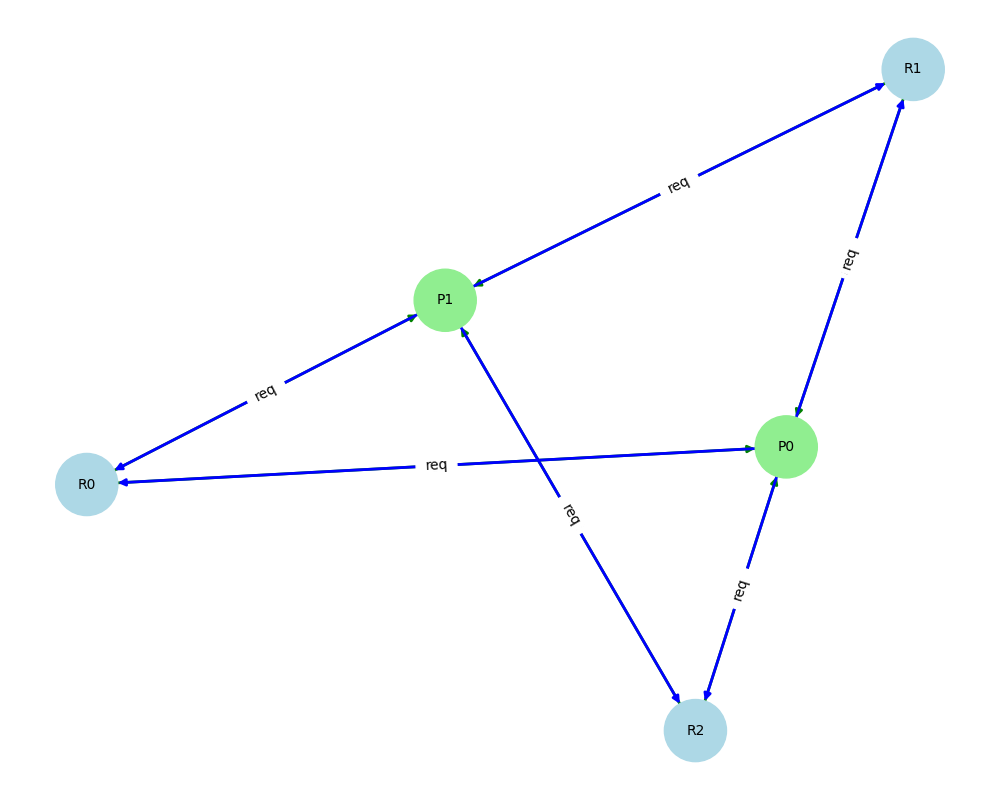
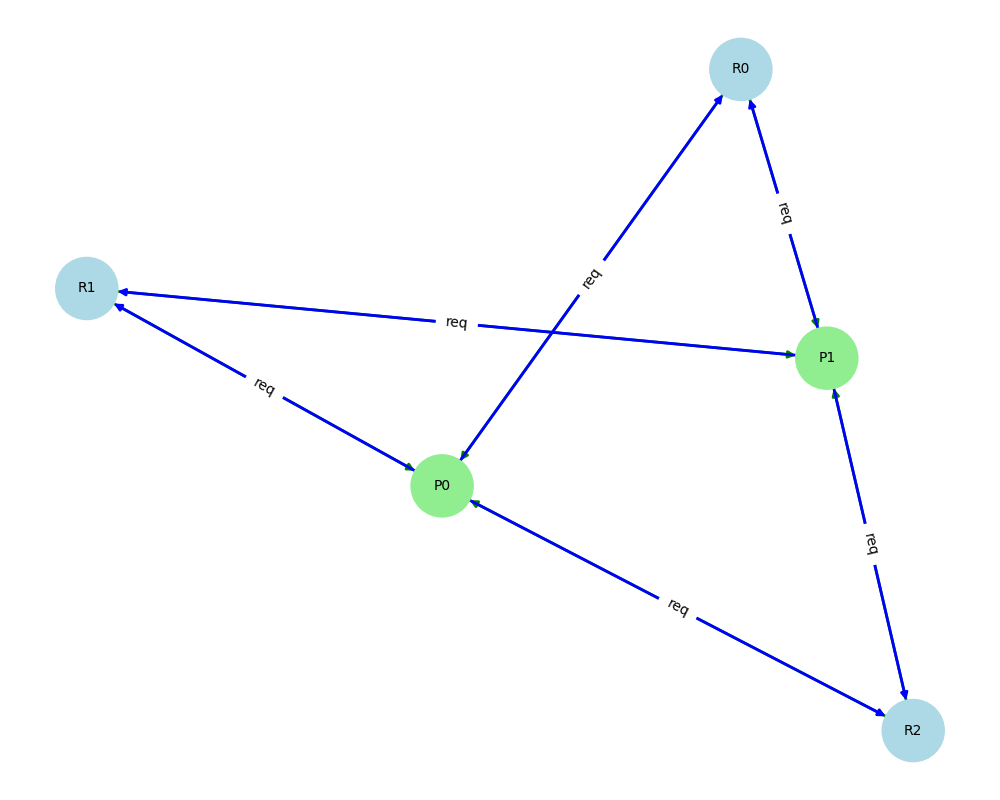
termination button added

diff --git a/frontend/templates/index.html b/frontend/templates/index.html
@@ -34,38 +34,73 @@
         <textarea id="alloc" placeholder="Allocation Matrix (comma-separated rows) e.g.: 1 0 0, 2 1 0"></textarea>
         <textarea id="max" placeholder="Maximum Matrix (comma-separated rows) e.g.: 3 3 2, 4 2 1"></textarea>
         <button onclick="checkDeadlock()">Analyze System State</button>
-        
+        <button id="terminateBtn" onclick="terminateProcess()" style="background: #dc3545; display: none;">Continue with Termination</button>
+
         <div id="output" class="result" style="display:none;"></div>
         <img id="graphImg" style="display:none;" alt="Resource Allocation Graph" />
     </div>
 
     <script>
+        let currentSystemState = null;
+
         async function checkDeadlock() {
             const num_processes = parseInt(document.getElementById('num').value);
             const total = document.getElementById('total').value.trim().split(' ').map(Number);
             const alloc = document.getElementById('alloc').value.trim().split(',').map(row => row.trim().split(' ').map(Number));
             const max = document.getElementById('max').value.trim().split(',').map(row => row.trim().split(' ').map(Number));
 
+            currentSystemState = {
+                num_processes: num_processes,
+                resource_totals: total,
+                allocation: alloc,
+                maximum: max,
+                terminated_processes: []
+            };
+
+            const response = await analyzeSystem(currentSystemState);
+            displayResults(response);
+        }
+
+        async function terminateProcess() {
+            if (!currentSystemState) return;
+
+            // Get the recommended process to terminate from the UI
+            const recommendationText = document.querySelector('.recommendation strong').nextSibling.textContent.trim();
+            const pid = parseInt(recommendationText.match(/P(\d+)/)[1]);
+
+            // Update the system state
+            currentSystemState.terminated_processes.push(pid);
+            currentSystemState.num_processes -= 1;
+
+            // Remove the terminated process from allocation and maximum matrices
+            currentSystemState.allocation.splice(pid, 1);
+            currentSystemState.maximum.splice(pid, 1);
+
+            // Recalculate available resources (add back the terminated process's allocations)
+            const alloc = currentSystemState.allocation.flat();
+            const total = currentSystemState.resource_totals;
+            currentSystemState.available = total.map((t, i) => t - alloc.reduce((sum, a, j) => sum + (j % total.length === i ? a : 0), 0));
+
+            const response = await analyzeSystem(currentSystemState);
+            displayResults(response);
+        }
+
+        async function analyzeSystem(systemState) {
             const response = await fetch('/check', {
                 method: 'POST',
                 headers: { 'Content-Type': 'application/json' },
-                body: JSON.stringify({ 
-                    num_processes: num_processes, 
-                    resource_totals: total, 
-                    allocation: alloc, 
-                    maximum: max 
-                })
+                body: JSON.stringify(systemState)
             });
+            return await response.json();
+        }
 
-            const data = await response.json();
+        function displayResults(data) {
             const outputDiv = document.getElementById('output');
+            const terminateBtn = document.getElementById('terminateBtn');
             outputDiv.style.display = 'block';
-
-            // Clear previous classes
             outputDiv.className = 'result';
             outputDiv.innerHTML = '';
 
-            // Set status-specific styling
             if (data.status === 'safe') {
                 outputDiv.classList.add('safe');
                 outputDiv.innerHTML = `
@@ -74,6 +109,7 @@
                         <strong>Safe Execution Sequence:</strong> ${data.safe_sequence.join(" → ")}
                     </div>
                 `;
+                terminateBtn.style.display = 'none';
             } else if (data.status === 'deadlock') {
                 outputDiv.classList.add('deadlock');
                 outputDiv.innerHTML = `
@@ -85,11 +121,12 @@
                         <strong>Recommended Action:</strong> ${data.termination_recommendation}
                     </div>
                 `;
+                terminateBtn.style.display = 'block';
             } else {
                 outputDiv.innerHTML = `<p>Error: ${data.message}</p>`;
+                terminateBtn.style.display = 'none';
             }
 
-            // Display graph if available
             const graphImg = document.getElementById('graphImg');
             if (data.graph_url) {
                 graphImg.src = data.graph_url + '?t=' + new Date().getTime();

diff --git a/frontend/app.py b/frontend/app.py
@@ -23,30 +23,38 @@ def check_deadlock():
         resource_totals = data['resource_totals']
         max_needs = data['maximum']
         allocations = data['allocation']
+        terminated_processes = data.get('terminated_processes', [])
 
         print("🔍 Received Data:")
         print("Processes:", num_processes)
         print("Resource Totals:", resource_totals)
         print("Max Needs:", max_needs)
         print("Allocations:", allocations)
+        print("Terminated Processes:", terminated_processes)
 
         # Initialize system
         system = System(resource_totals)
 
-        # Add processes and allocations
-        for max_need in max_needs:
-            system.add_process(max_need)
+        # Add processes and allocations (skip terminated ones)
+        for i, max_need in enumerate(max_needs):
+            if i not in terminated_processes:
+                system.add_process(max_need)
 
+        # Apply allocations (only for non-terminated processes)
+        active_process_index = 0
         for i, alloc in enumerate(allocations):
-            system.processes[i].allocate(alloc)
-            for j in range(len(alloc)):
-                system.resources[j].allocate(alloc[j])
-                system.available[j] -= alloc[j]
+            if i not in terminated_processes:
+                system.processes[active_process_index].allocate(alloc)
+                for j in range(len(alloc)):
+                    system.resources[j].allocate(alloc[j])
+                    system.available[j] -= alloc[j]
+                active_process_index += 1
 
         # Check safety using Banker's algorithm
         is_safe, safe_sequence = system.is_safe()
         deadlocked = []
         termination_recommendation = None
+        termination_pid = None
 
         # If unsafe, detect deadlock using WFG
         if not is_safe:
@@ -54,15 +62,16 @@ def check_deadlock():
             wfg.build_graph()
             deadlocked = wfg.detect_deadlock()
             termination_pid = wfg.recommend_process_to_terminate()
-            termination_recommendation = (
-                f"Terminate P{termination_pid} to break circular wait. "
-                f"This process holds resources: {system.processes[termination_pid].allocation}"
-            )
+            if termination_pid is not None:
+                termination_recommendation = (
+                    f"Terminate P{termination_pid} to break circular wait. "
+                    f"This process holds resources: {system.processes[termination_pid].allocation}"
+                )
 
         # Generate Resource Allocation Graph
         G = nx.DiGraph()
 
-        # Add nodes
+        # Add nodes (only active processes)
         for i in range(len(system.resources)):
             G.add_node(f"R{i}", shape='s', color='lightblue')
 
@@ -81,7 +90,6 @@ def check_deadlock():
                 if p.need[r] > 0:
                     edge_color = 'darkred' if not is_safe and p.pid in deadlocked else 'blue'
                     G.add_edge(f"P{p.pid}", f"R{r}", label='req', color=edge_color)
-
         # Draw graph
         pos = nx.spring_layout(G)
         plt.figure(figsize=(10, 8))
@@ -93,8 +101,11 @@ def check_deadlock():
                 node_colors.append('lightblue')
             else:
                 pid = int(node[1:])
-                if not is_safe and pid in deadlocked:
-                    node_colors.append('red' if pid == termination_pid else 'orange')
+                if not is_safe:
+                    if deadlocked and pid in deadlocked:
+                        node_colors.append('red' if 'termination_pid' in locals() and pid == termination_pid else 'orange')
+                    else:
+                        node_colors.append('lightgreen')
                 else:
                     node_colors.append('lightgreen')
 
